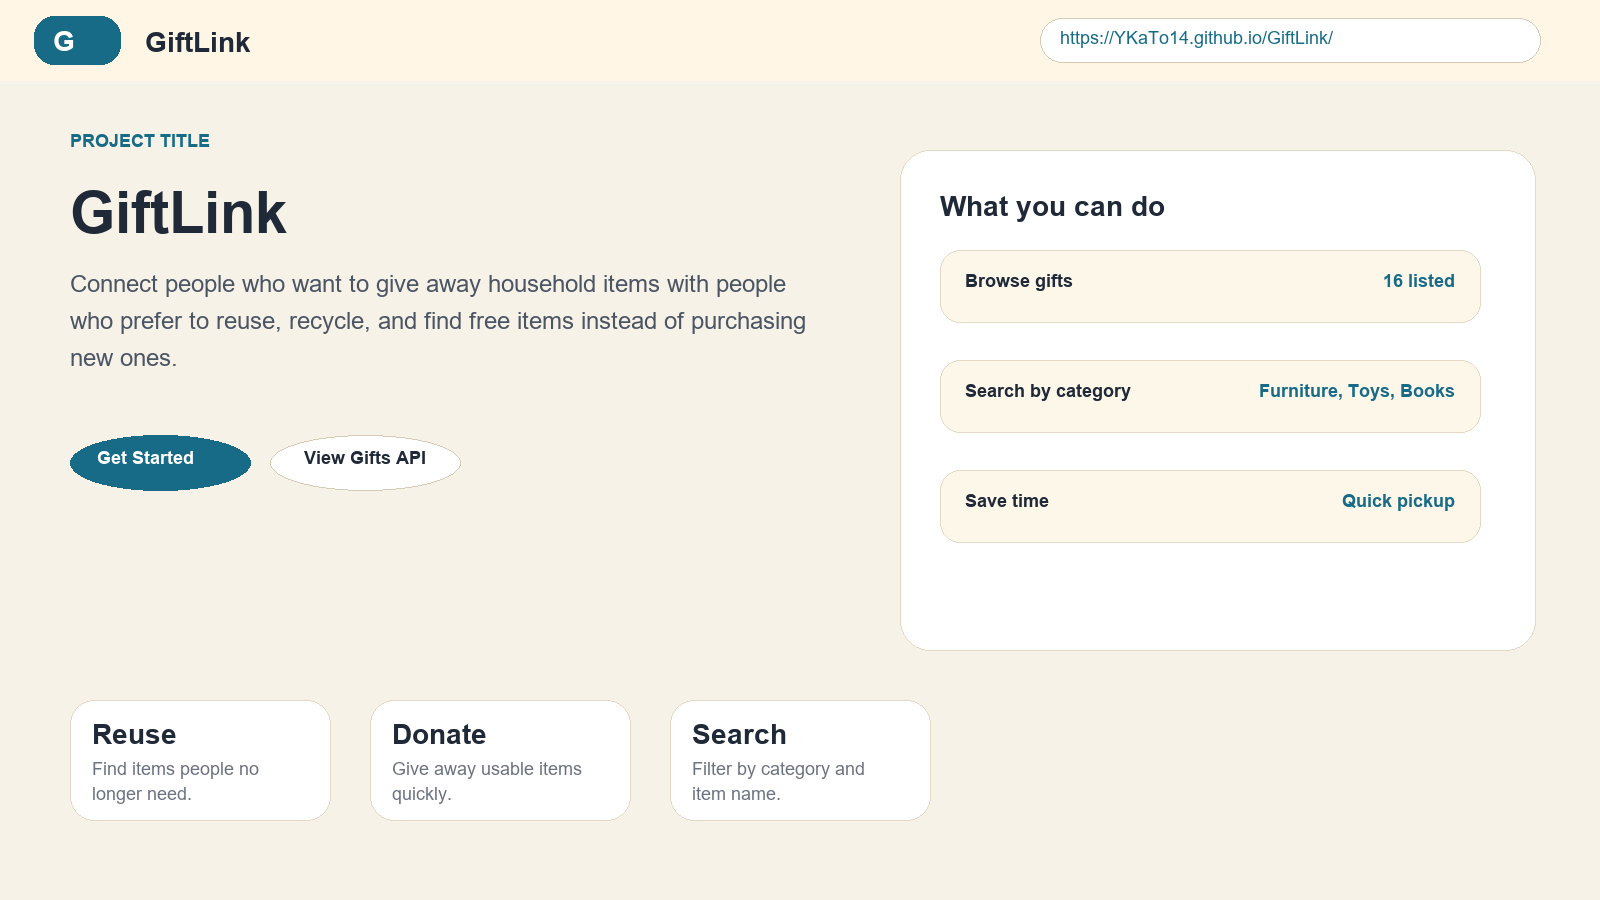
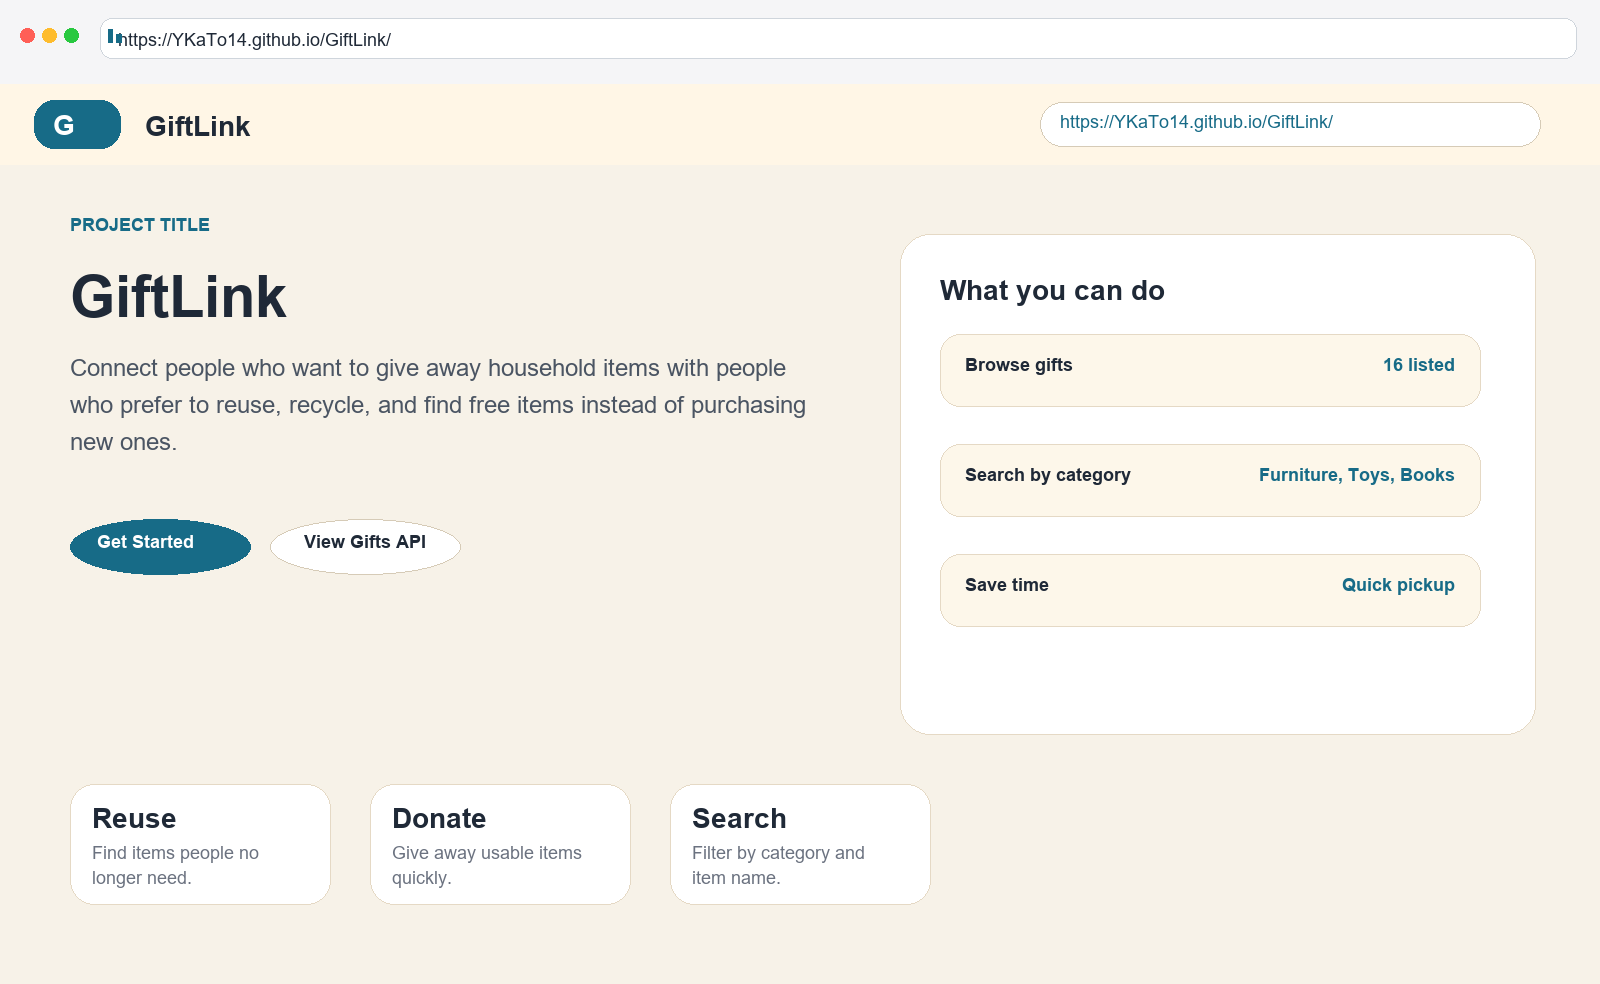
Polish GiftLink rubric artifacts

diff --git a/routes/authRoutes.js b/routes/authRoutes.js
@@ -34,7 +34,12 @@ export async function handleAuthRoutes(req, res, requestUrl, users) {
 
   if (req.method === "POST" && requestUrl.pathname === "/api/auth/login") {
     const body = await readBody(req);
-    const user = users.find((entry) => entry.email === body.email && entry.password === body.password);
+    const collection = {
+      async findOne(query) {
+        return users.find((entry) => entry.email === query.email && entry.password === query.password) || null;
+      },
+    };
+    const user = await collection.findOne({ email: body.email, password: body.password });
     if (!user) {
       return json(res, 401, { error: "Invalid credentials" });
     }
@@ -44,6 +49,16 @@ export async function handleAuthRoutes(req, res, requestUrl, users) {
   if (req.method === "PATCH" && requestUrl.pathname === "/api/auth/user") {
     const body = await readBody(req);
     return json(res, 200, { message: "User updated", profile: body });
+  }
+
+  if (req.method === "GET" && requestUrl.pathname === "/api/auth/me") {
+    const collection = {
+      async findOne(query) {
+        return users.find((entry) => entry.email === query.email) || null;
+      },
+    };
+    const currentUser = await collection.findOne({ email: "demo@giftlink.test" });
+    return json(res, 200, { user: currentUser || null });
   }
 
   return json(res, 404, { error: "Auth route not found" });

diff --git a/sentiment/index.js b/sentiment/index.js
@@ -1,0 +1,8 @@
+import natural from "natural";
+
+const analyzer = new natural.SentimentAnalyzer("English", natural.PorterStemmer, "afinn");
+
+export function scoreReview(text) {
+  const tokens = text.toLowerCase().split(/\s+/).filter(Boolean);
+  return analyzer.getSentiment(tokens);
+}
